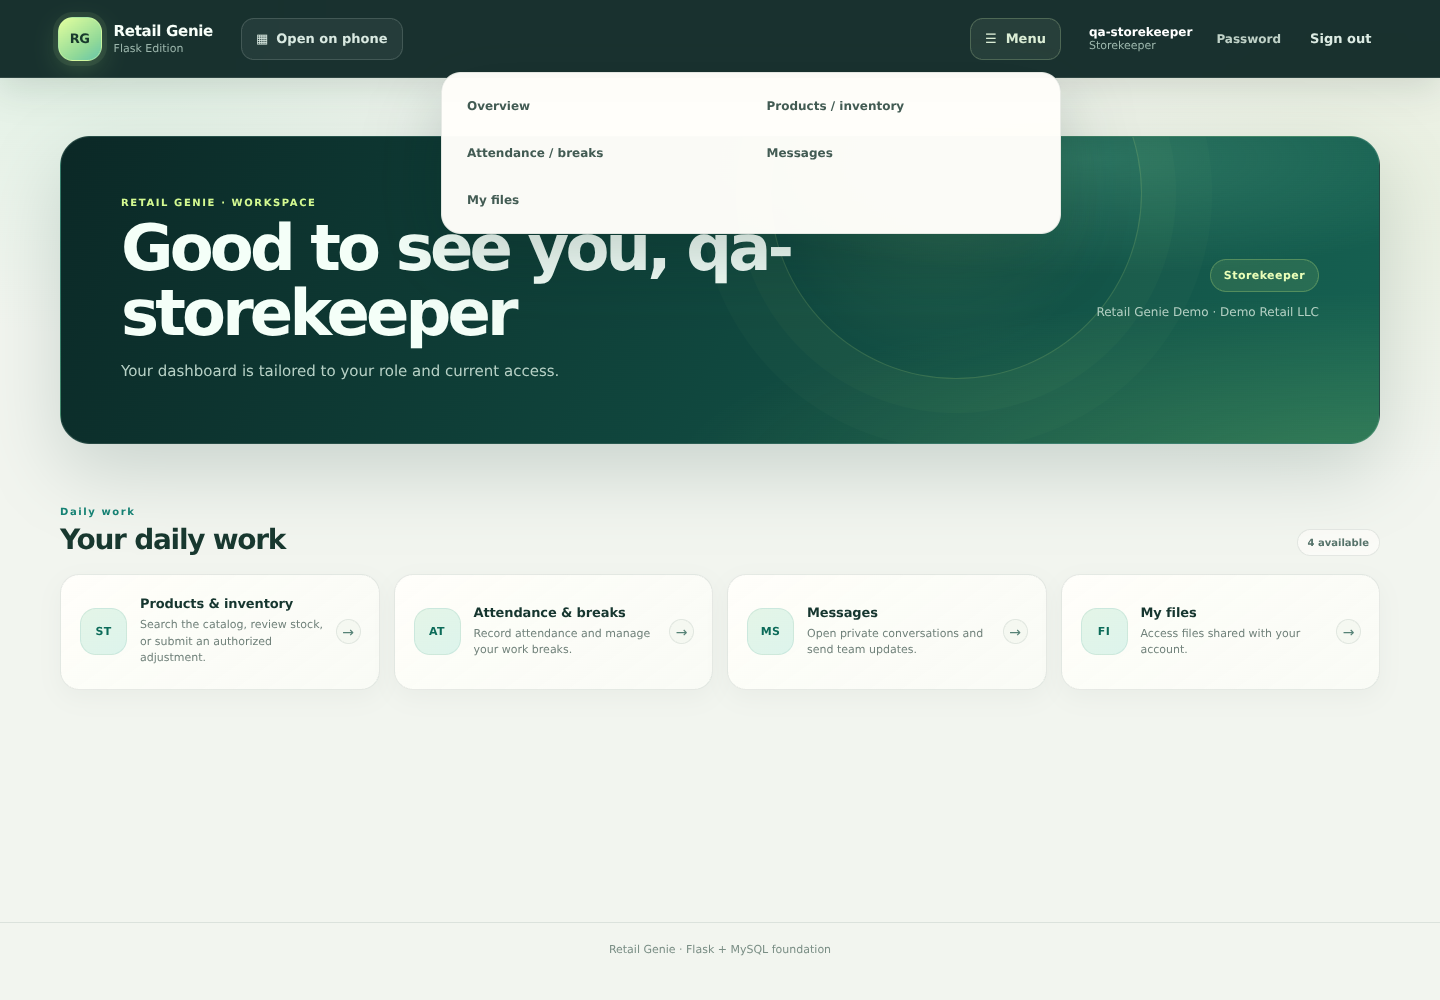
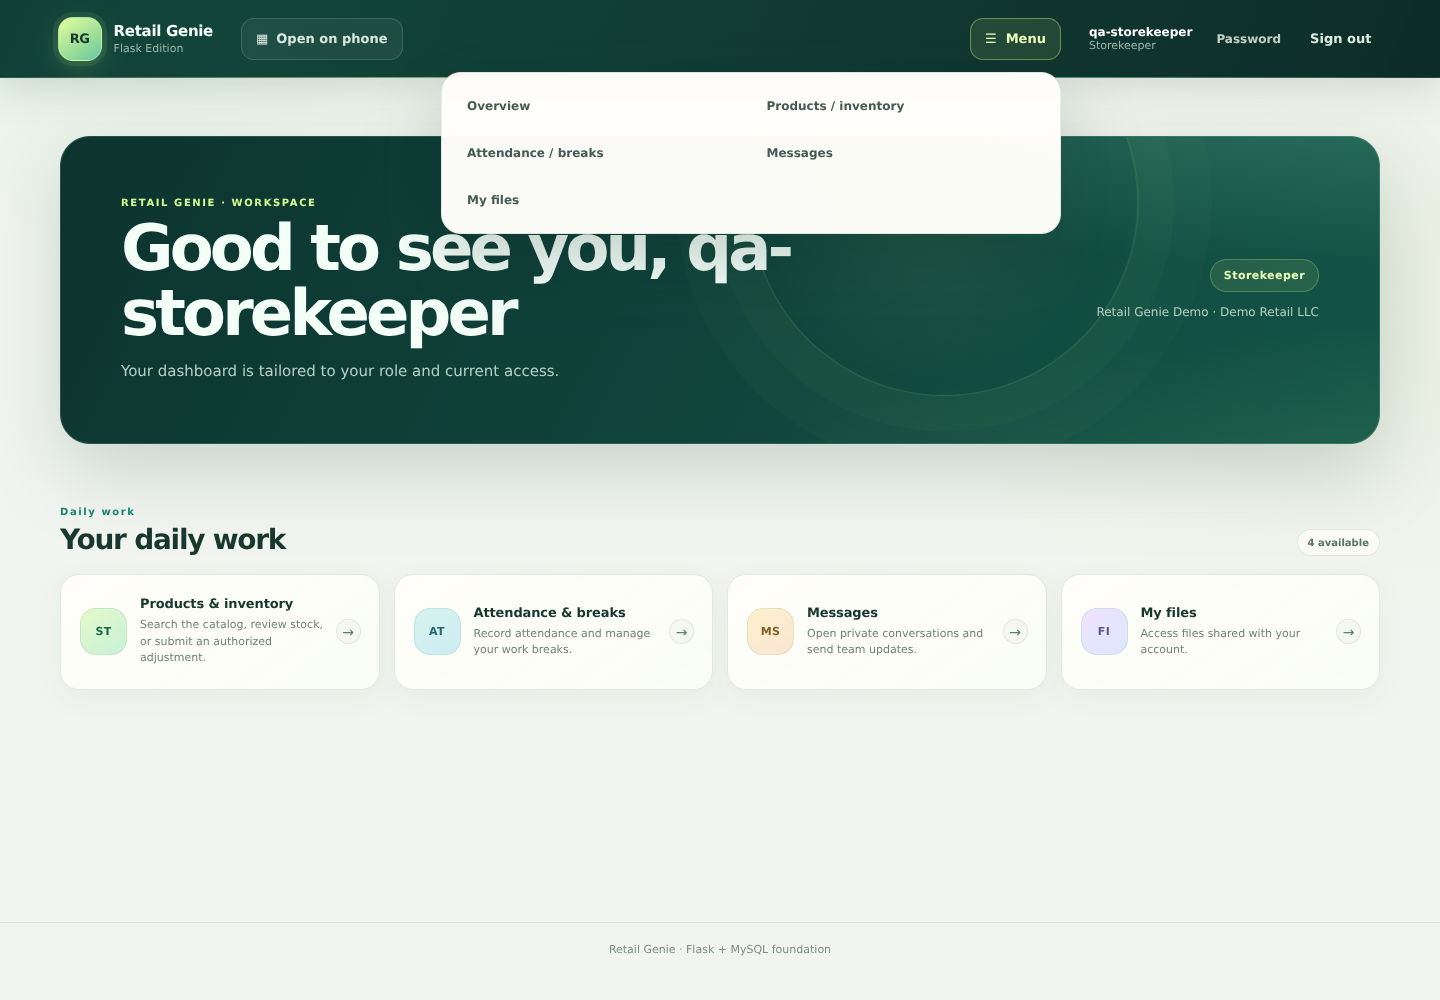
Add animated gradients and color accents

diff --git a/Retail Genie Final/retail_genie/static/css/app.css b/Retail Genie Final/retail_genie/static/css/app.css
@@ -565,3 +565,91 @@ th, td { border-bottom-color: rgba(19, 55, 49, .08); }
 @media (prefers-reduced-motion: reduce) {
   *, *::before, *::after { scroll-behavior: auto !important; animation-duration: .01ms !important; animation-iteration-count: 1 !important; transition-duration: .01ms !important; }
 }
+
+/* Ambient color and motion — intentionally slow, lightweight, and motion-safe. */
+@keyframes hero-gradient-flow {
+  0%, 100% { background-position: 0% 50%, 100% 0%, 0% 50%; }
+  50% { background-position: 100% 50%, 0% 100%, 100% 50%; }
+}
+@keyframes orbit-breathe {
+  0%, 100% { transform: translate3d(0, 0, 0) scale(1); opacity: .78; }
+  50% { transform: translate3d(-12px, 9px, 0) scale(1.045); opacity: 1; }
+}
+@keyframes rise-in {
+  from { opacity: 0; transform: translateY(12px); }
+  to { opacity: 1; transform: translateY(0); }
+}
+@keyframes menu-enter {
+  from { opacity: 0; transform: translateY(-7px) scale(.985); }
+  to { opacity: 1; transform: translateY(0) scale(1); }
+}
+@keyframes accent-sheen {
+  0% { background-position: 0% 50%; }
+  100% { background-position: 100% 50%; }
+}
+
+body { background: var(--canvas); }
+.topbar {
+  background-image: linear-gradient(112deg, rgba(12, 37, 35, .97), rgba(17, 69, 58, .96) 52%, rgba(12, 37, 35, .97));
+  background-size: 220% 220%;
+  animation: accent-sheen 22s ease-in-out infinite alternate;
+}
+.topbar::after {
+  position: absolute; right: 0; bottom: -1px; left: 0; height: 1px;
+  background: linear-gradient(90deg, transparent, rgba(217, 250, 131, .55), rgba(119, 220, 177, .62), transparent);
+  content: ""; pointer-events: none;
+}
+.nav-menu[open] .main-nav { animation: menu-enter .2s cubic-bezier(.2,.8,.2,1) both; }
+.workspace-hero {
+  background-size: 150% 150%, 160% 160%, 180% 180%;
+  animation: hero-gradient-flow 20s ease-in-out infinite alternate;
+}
+.workspace-hero::after { animation: orbit-breathe 10s ease-in-out infinite; }
+.workspace-section { animation: rise-in .55s cubic-bezier(.2,.8,.2,1) both; }
+.workspace-section:nth-of-type(2) { animation-delay: .05s; }
+.workspace-section:nth-of-type(3) { animation-delay: .11s; }
+.workspace-section:nth-of-type(4) { animation-delay: .17s; }
+.workspace-section:nth-of-type(5) { animation-delay: .23s; }
+.workspace-section:nth-of-type(6) { animation-delay: .29s; }
+.workspace-card {
+  background-image: linear-gradient(145deg, rgba(255, 254, 250, .98), rgba(248, 252, 243, .94));
+  background-size: 160% 160%;
+  animation: rise-in .48s cubic-bezier(.2,.8,.2,1);
+}
+.workspace-card:nth-child(4n + 1) .workspace-card-icon { color: #176547; background: linear-gradient(145deg, #e4f9c9, #c8f1d9); }
+.workspace-card:nth-child(4n + 2) .workspace-card-icon { color: #226776; background: linear-gradient(145deg, #d7f3ea, #ccecf6); }
+.workspace-card:nth-child(4n + 3) .workspace-card-icon { color: #806027; background: linear-gradient(145deg, #fff1cb, #f9e5d3); }
+.workspace-card:nth-child(4n + 4) .workspace-card-icon { color: #65528b; background: linear-gradient(145deg, #eee2ff, #dce8fc); }
+.workspace-card:hover { background-image: linear-gradient(120deg, #fffefa, #f1f9e7 55%, #eef9f1); }
+.workspace-card:hover .workspace-card-icon { box-shadow: 0 0 0 4px rgba(112, 190, 133, .1); }
+.button-primary { background-size: 180% 180%; }
+.button-primary:hover { background-position: 100% 50%; }
+.flash { animation: rise-in .3s ease-out both; }
+
+@keyframes ambient-orb-drift {
+  from { transform: translate3d(-1.5%, 0, 0) scale(1); }
+  to { transform: translate3d(1.5%, 1%, 0) scale(1.035); }
+}
+body { position: relative; isolation: isolate; background: var(--canvas); }
+body::before {
+  position: fixed; z-index: -1; inset: -12%; content: ""; pointer-events: none;
+  background:
+    radial-gradient(ellipse at 12% 14%, rgba(201, 235, 209, .82), transparent 38%),
+    radial-gradient(ellipse at 91% 21%, rgba(226, 239, 183, .72), transparent 35%),
+    radial-gradient(ellipse at 60% 84%, rgba(195, 243, 223, .48), transparent 40%);
+  filter: blur(24px); will-change: transform;
+  animation: ambient-orb-drift 36s ease-in-out infinite alternate;
+}
+
+@media (prefers-reduced-motion: reduce) {
+  body, body::before, .topbar, .workspace-hero, .workspace-hero::after, .workspace-section, .workspace-card, .flash,
+  .nav-menu[open] .main-nav { animation: none !important; }
+}
+.workspace-card:nth-child(1) { animation-delay: .02s; }
+.workspace-card:nth-child(2) { animation-delay: .05s; }
+.workspace-card:nth-child(3) { animation-delay: .08s; }
+.workspace-card:nth-child(4) { animation-delay: .11s; }
+.workspace-card:nth-child(5) { animation-delay: .14s; }
+.workspace-card:nth-child(6) { animation-delay: .17s; }
+.workspace-card:nth-child(7) { animation-delay: .20s; }
+.workspace-card:nth-child(8) { animation-delay: .23s; }

diff --git a/Retail Genie Final/retail_genie/templates/base.html b/Retail Genie Final/retail_genie/templates/base.html
@@ -5,7 +5,7 @@
   <meta name="viewport" content="width=device-width, initial-scale=1">
   <meta name="theme-color" content="#102a28">
   <title>{% block title %}Retail Genie{% endblock %}</title>
-  <link rel="stylesheet" href="{{ url_for('static', filename='css/app.css') }}?v=2026-10-23-refresh">
+  <link rel="stylesheet" href="{{ url_for('static', filename='css/app.css') }}?v=2026-10-23-aurora-motion-2">
 </head>
 <body>
   <header class="topbar">

diff --git a/Retail Genie Final/README.md b/Retail Genie Final/README.md
@@ -25,7 +25,7 @@ The target database is MySQL 8.0.16 or newer with InnoDB. The supplied schema is
 
 ## UI previews
 
-The 2026 interface refresh uses a deep forest-glass header, mineral canvas, citron highlights, larger workspace typography, and responsive cards. Screenshots were recaptured from an isolated browser preview using synthetic demo records; they are illustrative only and do **not** represent live-MySQL validation.
+The 2026 interface refresh uses a deep forest-glass header, mineral canvas, citron highlights, animated ambient gradients, staggered card entrances, larger workspace typography, and responsive cards. Motion respects the operating-system reduced-motion preference. Screenshots were recaptured from an isolated browser preview using synthetic demo records; they are illustrative only and do **not** represent live-MySQL validation.
 
 - [Dashboard — desktop](preview/dashboard.png) · [mobile](preview/dashboard-mobile.png)
 - [Sign-in — desktop](preview/login-desktop.png) · [mobile](preview/login-mobile.png)
